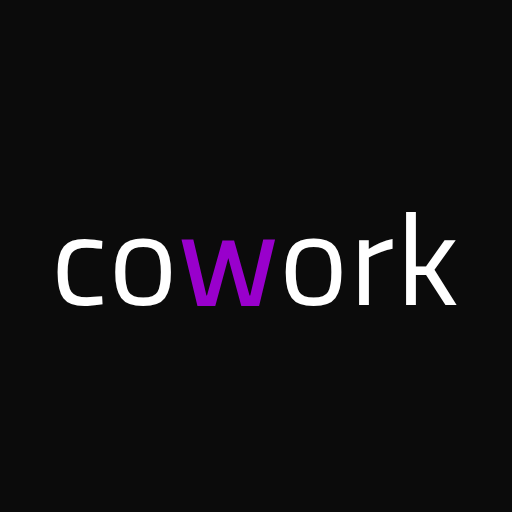
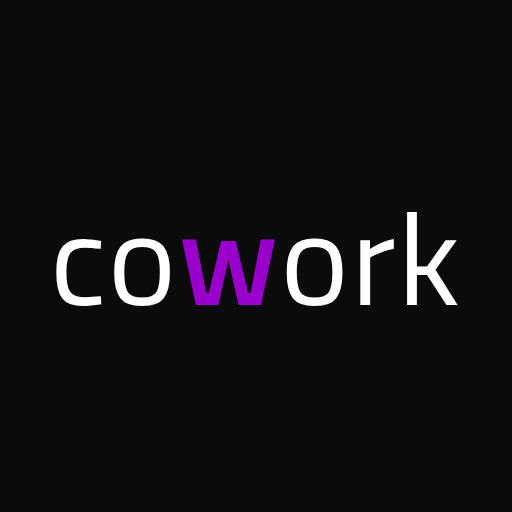
Use real Titillium Web 600 (SemiBold) for the "w" instead of a stroke
Replace the faux same-color stroke on the cowork "w" with the font's
actual SemiBold weight, which reads cleaner. The tab-bar wordmark now
loads Titillium Web 400+600 via next/font and applies font-weight 600
to the w; the icon SVG embeds the 600 TTF as a second @user and
sets the w tspan to font-weight 600. co/ork stay at 400. Regenerated
the PNG icons.

diff --git a/src/app/layout.tsx b/src/app/layout.tsx
@@ -7,7 +7,7 @@ import { ProjectProvider } from "@/lib/context/ProjectContext";
 import { ServiceWorkerRegistration } from "@/components/ServiceWorkerRegistration";
 
 const titilliumWeb = Titillium_Web({
-  weight: "400",
+  weight: ["400", "600"],
   subsets: ["latin"],
   variable: "--font-titillium",
 });

diff --git a/src/components/nav/ProjectTabBar.tsx b/src/components/nav/ProjectTabBar.tsx
@@ -59,7 +59,7 @@ export function ProjectTabBar() {
         className="absolute inset-y-0 right-0 flex items-center bg-bg-base px-3 text-xl tracking-tight text-text-secondary pointer-events-none select-none"
         style={{ fontFamily: "var(--font-titillium)" }}
       >
-        <span>co</span><span style={{ color: "#9900CC", WebkitTextStroke: "0.5px #9900CC" }}>w</span><span>ork</span>
+        <span>co</span><span style={{ color: "#9900CC", fontWeight: 600 }}>w</span><span>ork</span>
       </div>
     </div>
   );